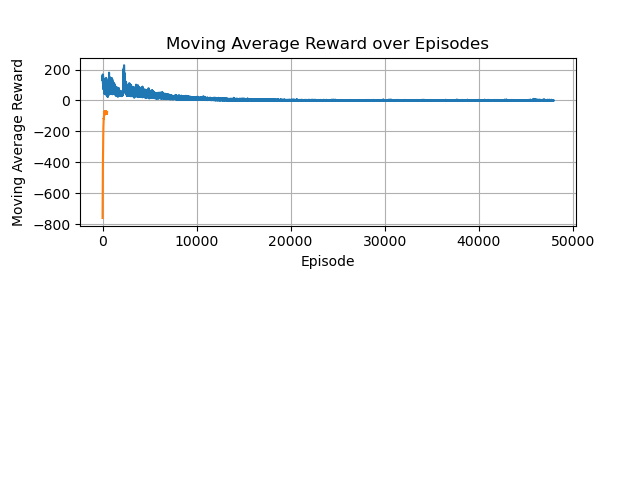
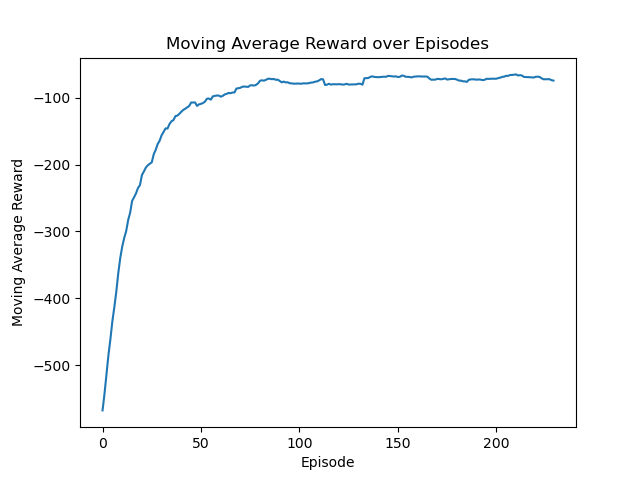
tune ddqn

diff --git a/resources/jax/drl/ddqn-rc-dyna-lssm.py b/resources/jax/drl/ddqn-rc-dyna-lssm.py
@@ -207,8 +207,9 @@ class DDQNAgent:
         loss_value, gradients = grad_fn(self.params, states, actions, rewards, next_states, dones)
         updates, self.opt_state = self.optimizer.update(gradients, self.opt_state)
         self.params = optax.apply_updates(self.params, updates)
-        self.losses.append(loss_value)
-        self.grads.append(gradients)
+        # this will use a lot of memeory
+        #self.losses.append(loss_value)
+        #self.grads.append(gradients)
         #self.epsilon = max(self.epsilon_end, self.epsilon * self.epsilon_decay)
         #print(self.epsilon)
         #self.steps += 1
@@ -328,8 +329,8 @@ disturbance = data[disturbance_names].values
 
 # %%
 # random seed
-seed = 0
-np.random.seed(seed)
+seed = 2
+random.seed(seed)
 
 # Train the agent
 import env
@@ -356,9 +357,9 @@ env = gym.make("R4C3Discrete-v0",
 
 state_size = env.observation_space.shape[0]
 action_size = env.action_space.n
-rng_key = jax.random.PRNGKey(42) 
+rng_key = jax.random.PRNGKey(seed) 
 lr = 1e-05
-epsilon_decay = 0.98
+epsilon_decay = 0.95
 planning_steps = 5
 
 agent = DDQNAgent(state_size, action_size, rng_key, lr=lr, epsilon_decay=epsilon_decay)
@@ -371,7 +372,7 @@ env_model_params = exact_model_params
 n_episodes = 250
 reward_history = []
 max_episode_steps=200 # env.spec.max_episode_steps
-reward_threshold= -70 # env.spec.reward_threshold
+reward_threshold= -60 # env.spec.reward_threshold
 solved_window = 20
  
 # sync target q-network
@@ -380,7 +381,7 @@ target_update_freq = 5
 
 # main loop
 for episode in range(n_episodes):
-    state, _ = env.reset(seed=0)
+    state, _ = env.reset(seed=seed)
     state = jnp.array(state, dtype=jnp.float32)
 
     total_reward = 0
@@ -437,14 +438,6 @@ plt.xlabel("Episode")
 plt.ylabel("Total Reward")
 plt.title("Historical Rewards for RC-v1")
 plt.savefig('ddqn-rc-dyna-lssm-reward.png')
-
-
-# %%
-plt.figure()
-plt.subplot(2,1,1)
-plt.plot(agent.losses)
-plt.grid()
-plt.savefig('ddqn-rc-dyna-lssm-losses.png')
 
 # %%
 # plot training 
@@ -538,4 +531,4 @@ plt.savefig('ddqn-rc-dyna-lssm.png')
 
 # save actions for future use
 with open('./ddqn-rc-dyna-lssm-actions.json', 'w') as f:
-    json.dump(actions, f)
+    json.dump([float(action) for action in actions], f)

diff --git a/resources/jax/drl/ddqn-rc.py b/resources/jax/drl/ddqn-rc.py
@@ -172,8 +172,8 @@ disturbance = data[disturbance_names].values
 
 # %%
 # random seed
-seed = 0
-np.random.seed(seed)
+seed = 1
+random.seed(seed)
 
 # Train the agent
 import env
@@ -200,16 +200,16 @@ env = gym.make("R4C3Discrete-v0",
 
 state_size = env.observation_space.shape[0]
 action_size = env.action_space.n
-rng_key = jax.random.PRNGKey(42) 
+rng_key = jax.random.PRNGKey(seed) 
 lr = 1e-05
-epsilon_decay = 0.98
+epsilon_decay = 0.95
 
 agent = DDQNAgent(state_size, action_size, rng_key, lr=lr, epsilon_decay=epsilon_decay)
 
-n_episodes = 500
+n_episodes = 250
 reward_history = []
-max_episode_steps=200 # env.spec.max_episode_steps
-reward_threshold= -10 # env.spec.reward_threshold
+max_episode_steps=250 # env.spec.max_episode_steps
+reward_threshold= -60 # env.spec.reward_threshold
 solved_window = 20
  
 # sync target q-network
@@ -218,7 +218,7 @@ target_update_freq = 5
 
 # main loop
 for episode in range(n_episodes):
-    state, _ = env.reset(seed=0)
+    state, _ = env.reset(seed=seed)
     state = jnp.array(state, dtype=jnp.float32)
 
     total_reward = 0
@@ -298,12 +298,6 @@ plot_moving_average_reward(reward_history)
 
 
 # %%
-# need a virtual display for rendering in docker
-from pyvirtualdisplay import Display
-display = Display(visible=0, size=(1400, 900))
-display.start()
-from IPython import display as ipythondisplay
-
 # Test the trained agent
 
 print("\nTesting the trained agent...")
